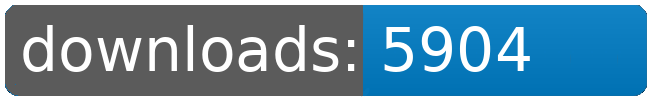
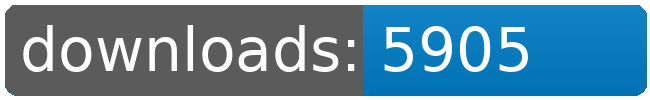
dl log written

Changed region(s): [[0.7692, 0.27, 0.8308, 0.72]]

diff --git a/README.md b/README.md
@@ -21,8 +21,8 @@
 		<td>5820</td>
 		<td>5860</td>
 		<td>5891</td>
-		<td>5904</td>
-		<td>+ 13</td>
+		<td>5905</td>
+		<td>+ 14</td>
 	</tr>
 	<tr>
 		<td>Factory.Outlets</td>
@@ -109,8 +109,8 @@
 		<td></td>
 		<td></td>
 		<td></td>
-		<td>45764</td>
-		<td>75</td>
+		<td>45765</td>
+		<td>76</td>
 	</tr>
 </table>
 </sub></sup>
@@ -157,8 +157,8 @@
 		<td>5820</td>
 		<td>5860</td>
 		<td>5891</td>
-		<td>5904</td>
-		<td>+ 13</td>
+		<td>5905</td>
+		<td>+ 14</td>
 	</tr>
 	<tr>
 		<td>Korunak.Defense.Drones</td>
@@ -223,8 +223,8 @@
 		<td></td>
 		<td></td>
 		<td></td>
-		<td>45764</td>
-		<td>75</td>
+		<td>45765</td>
+		<td>76</td>
 	</tr>
 </table>
 </sub></sup>
@@ -232,7 +232,6 @@
 <table>
 	<tr>
 		<td> </td>
-		<td>2026-04-25</td>
 		<td>2026-04-26</td>
 		<td>2026-04-27</td>
 		<td>2026-04-28</td>
@@ -241,10 +240,10 @@
 		<td>2026-05-01</td>
 		<td>2026-05-02</td>
 		<td>2026-05-03</td>
+		<td>2026-05-04</td>
 	</tr>
 	<tr>
 		<td>page views</td>
-		<td>4</td>
 		<td>13</td>
 		<td>24</td>
 		<td>2</td>
@@ -253,10 +252,10 @@
 		<td>14</td>
 		<td>3</td>
 		<td>9</td>
+		<td>0</td>
 	</tr>
 	<tr>
 		<td>unique visitors</td>
-		<td>4</td>
 		<td>10</td>
 		<td>7</td>
 		<td>2</td>
@@ -265,6 +264,7 @@
 		<td>7</td>
 		<td>3</td>
 		<td>6</td>
+		<td>0</td>
 	</tr>
 </table>
 <br>